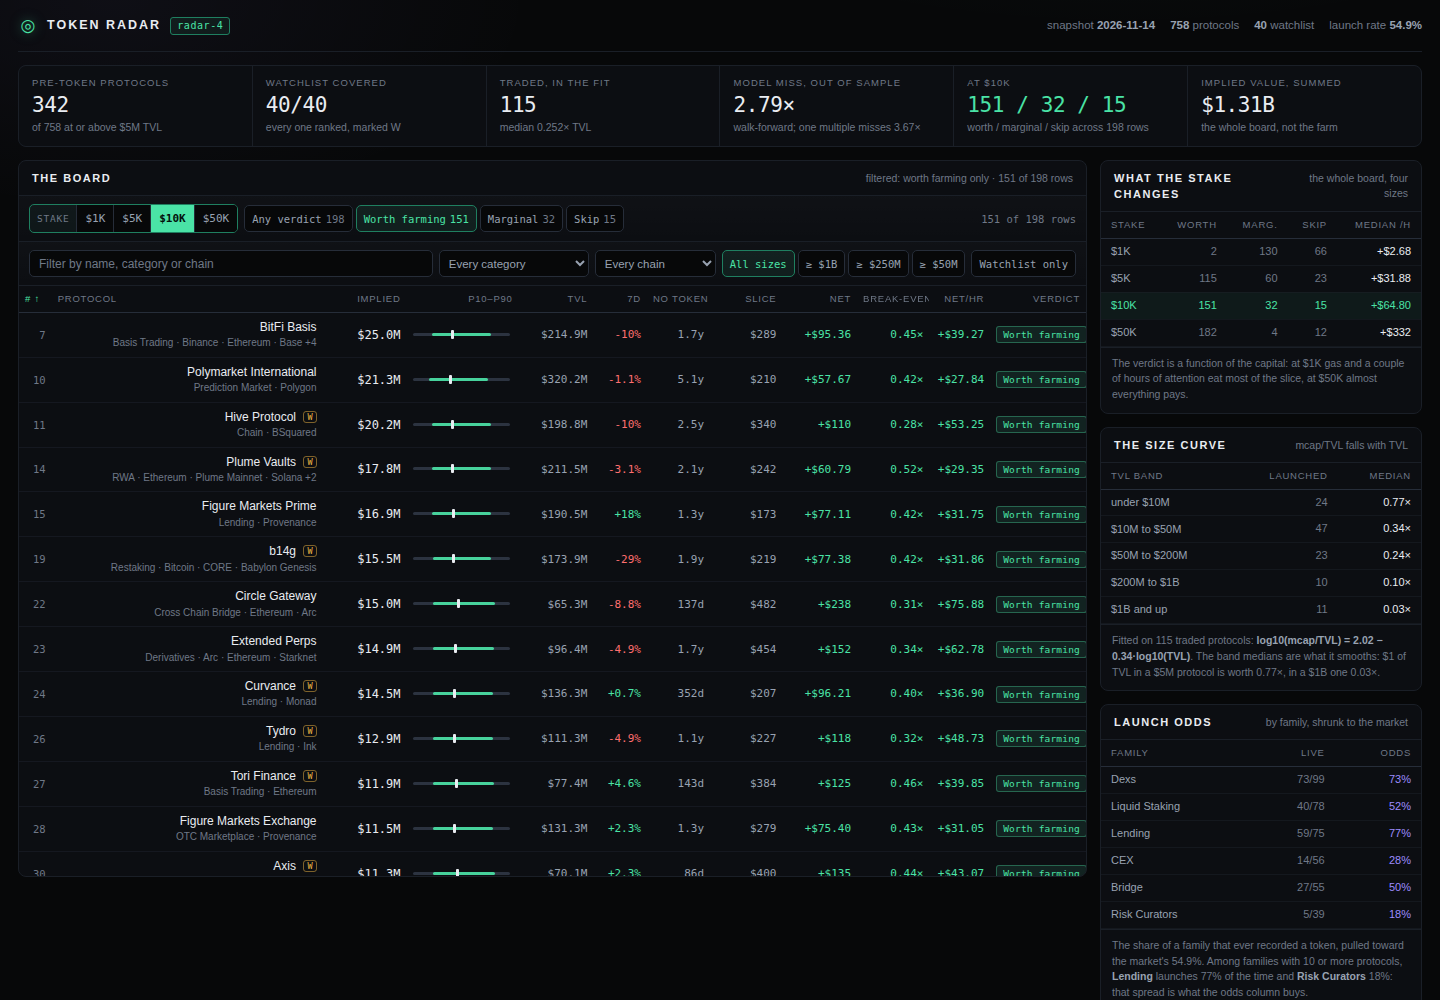
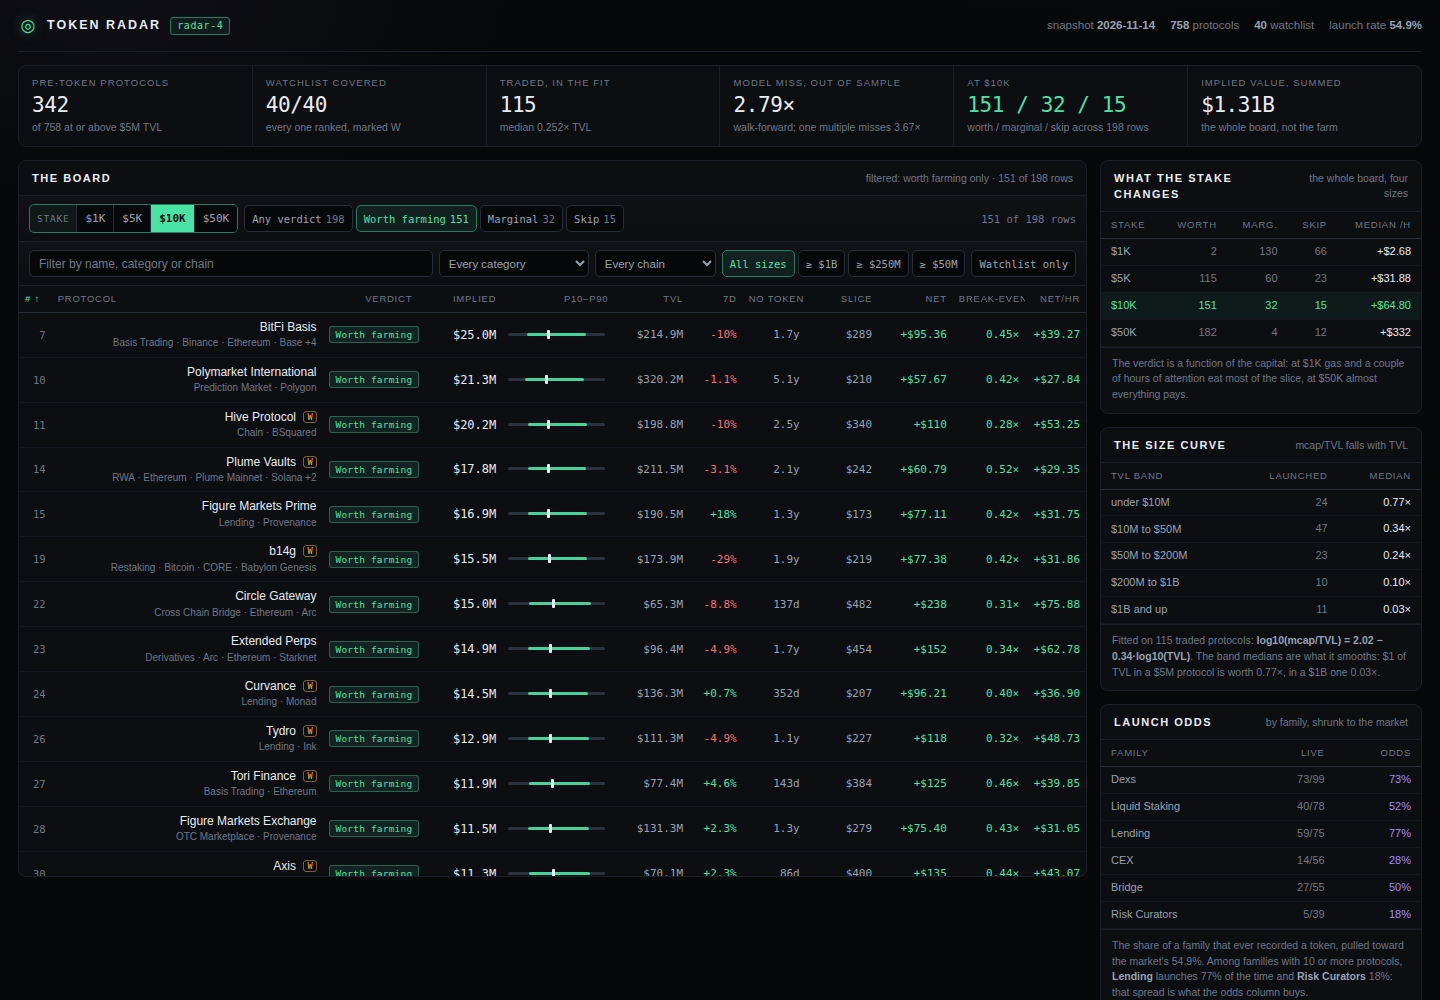
Open on the tier that answers the question, and lead with the verdict
The board opened at $1K, where gas and two hours of attention eat almost
every slice: the first thing a reader saw was 2 worth farming against 130
marginal and 66 skip, which reads as "this tool says do nothing". It now
opens at $10K, where 151 of 198 pay, and the switch to $1K is one click
away for anyone who wants the small-stake answer.

The verdict also moved from the last column to the second, right after the
protocol: rank, name, verdict, then the numbers that justify it. Four
screenshots were retaken against this build so the cover, the detail view,
the filtered view and the model ladder all show the same page.

diff --git a/dashboard/s/app.js b/dashboard/s/app.js
@@ -79,7 +79,11 @@
 
   var params = new URLSearchParams(location.search);
   var TIERS = D.assumptions.stake_tiers;
-  var tier = 0;
+  /* Open on the tier where the answer is not "almost nothing pays": the first impression of the
+     board should be the decision at a size most readers would actually deploy, and the switch is
+     right there for anyone who wants $1K. Falls back to the first tier if the ladder changes. */
+  var tier = TIERS.indexOf(10000);
+  if (tier < 0) tier = 0;
   var askedStake = Number(params.get('stake') || 0);
   for (var i = 0; i < TIERS.length; i += 1) if (TIERS[i] === askedStake) tier = i;
   var VERDICTS = ['Worth farming', 'Marginal', 'Skip'];
@@ -282,6 +286,7 @@
     var head = '<thead><tr>' +
       sortHead('rank', '#', 'l', '', 'c-rank') +
       sortHead('name', 'Protocol', 'l', '', 'c-name') +
+      sortHead('verdict', 'Verdict', 'n', 'At the stake the page is switched to: does the plan pay for the hours it takes', 'c-vd') +
       sortHead('implied', 'Implied', 'n', 'TVL × the fitted multiple × launch odds. The board ranks this.', 'c-val') +
       sortHead('band', 'P10–P90', 'n', 'The spread of the model\'s leave-one-out misses at this size', 'c-band') +
       sortHead('tvl', 'TVL', 'n', '', 'c-tvl') +
@@ -291,7 +296,6 @@
       sortHead('net', 'Net', 'n', 'The slice × the launch odds, less gas and the cost of capital', 'c-net') +
       sortHead('be', 'Break-even', 'n', 'How far above the model the launch must land, after the odds, for the bet to pay', 'c-be') +
       sortHead('ph', 'Net/hr', 'n', 'Net over the hours the plan takes', 'c-ph') +
-      sortHead('verdict', 'Verdict', 'n', '', 'c-vd') +
       '</tr></thead>';
     var body = rows.map(function (row) {
       var d = dec(row);
@@ -303,6 +307,7 @@
         '<td class="c-name nm">' + esc(row.name) +
           (row.watch ? ' <span class="w" title="On the house watchlist">W</span>' : '') +
           '<span class="sub">' + esc(row.cat) + ' · ' + esc(chainsText) + '</span></td>' +
+        '<td class="c-vd">' + verdictPill(d.verdict) + '</td>' +
         '<td class="c-val val">' + money(row.implied) + '</td>' +
         '<td class="c-band bandcell">' + bandCell(row) + '</td>' +
         '<td class="c-tvl num">' + money(row.tvl) + '</td>' +
@@ -312,7 +317,6 @@
         '<td class="c-net num ' + (d.net_usd > 0 ? 'pos' : d.net_usd < 0 ? 'neg' : 'flat') + '">' + cash(d.net_usd) + '</td>' +
         '<td class="c-be num ' + (d.break_even < 1 ? 'pos' : d.break_even > 2 ? 'neg' : 'flat') + '">' + times(d.break_even) + '</td>' +
         '<td class="c-ph num ' + (d.net_per_hour >= D.assumptions.labour_usd_per_hour ? 'pos' : d.net_per_hour < 0 ? 'neg' : 'flat') + '">' + cash(d.net_per_hour) + '</td>' +
-        '<td class="c-vd">' + verdictPill(d.verdict) + '</td>' +
         '</tr>';
     }).join('');
     return '<div class="tablewrap"><table class="board">' + head + '<tbody>' +
